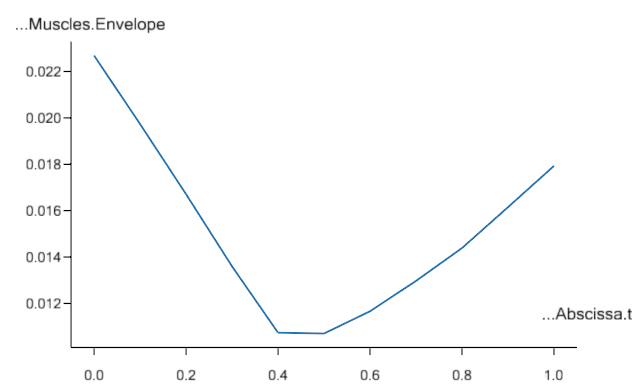
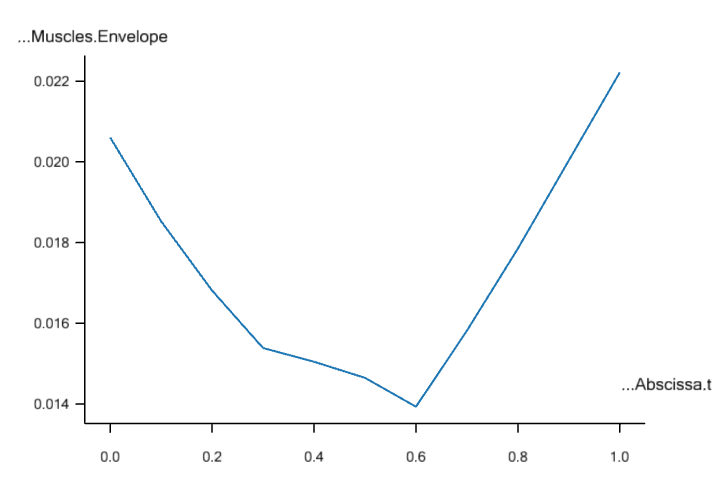
Reviewed GEtting started modeling

diff --git a/A_Getting_started_modeling/lesson3.rst b/A_Getting_started_modeling/lesson3.rst
@@ -48,11 +48,12 @@ is one model feature that will make your life easier.
 **The human model includes "default drivers" which can constrain the human model's posture
 to the joint angles and velocities set in the "Mannequin.any" file.**
 
-These constraint enforced by the default drivers are defined as ‘soft’
+The constraint enforced by the default drivers are defined as ‘soft’
 constraints - constraints that be overridden by the 19 'hard constraints' which we will define.
 
 **You can therefore sequentially add the 19 hard drivers on top of the soft default drivers, and deactivate the default
-drivers at the very end. The advantage is that you have a model whose kinematics can be tested at every step along the way.**
+drivers at the** :ref:`*very end of this lesson* <Check if model is kinematically determined?>` **. The advantage is that you have a model whose 
+kinematics can be tested at every step along the way.**
 
 Step 1: Fixing the pelvis to ground
 -----------------------------------------------
@@ -71,13 +72,14 @@ In the "Environment.any" file, add the following within the "GlobalReferenceFram
          };§
        }; // Global reference frame
 
+**Reload the model (F7).**
 
 Hpoint is a term used in the seating industry to characterize
 the position of the pelvis in a seat. Here we shall simply attach the
 pelvis to this point by means of a rigid connection.
 
 **Drivers which connect the human and environment are traditionally placed in a folder called
-"ModelEnvironmentConnection" (** :doc:`*explained here* <lesson1>` **), and for historical reasons, it is placed in
+"ModelEnvironmentConnection" (** :ref:`*explained here* <The model structure>` **), and for historical reasons, it is placed in
 an** ``#include`` **file called "JointsAndDrivers.any". Let’s open this file by
 double-clicking of the following line in the main file**:
 
@@ -213,8 +215,8 @@ once they are properly defined.**
 Step 2: Locking pelvis-thorax rotation
 --------------------------------------
 
-The only purpose of the trunk in this model is to anchor the psoas muscles connected 
-to the leg. So we will set to zero, the angles and velocities of 3 DOF of pelvis-thorax flexion, lateral bending and axial rotation.
+The only purpose of the trunk in this model is to anchor the psoas muscles which move 
+the leg. So we will set to zero, the angles and velocities of 3 DOF of pelvis-thorax flexion, lateral bending and axial rotation.
 
 We will place the drivers enforcing these constraints in the "Drivers" folder within "JointsAndDrivers.any" (shown below):
 
@@ -235,7 +237,7 @@ We will place the drivers enforcing these constraints in the "Drivers" folder wi
     };
 
 
-Then insert a"PelvisThoraxDriver" into the Drivers folder, created using the ``AnyKinEqSimpleDriver`` class. 
+Insert a"PelvisThoraxDriver" into the Drivers folder, created using the ``AnyKinEqSimpleDriver`` class. 
 You already know how to create model objects from scratch by using the 
 the "Class Inserter" (:ref:`*described here* <Creating a segment (using the Class Inserter)>`). More details on properties
 such as DriverPos, DriverVel etc. can be (:ref:`*found here* <Creating a constant velocity joint motion>`) :
@@ -295,7 +297,7 @@ Step 4: Connecting the foot to the pedal
 -----------------------------------------
 
 The foot will be connected to the pedal by a spherical joint. We have assumed 
-the connection node on the foot to be the "MetatarsalJoint2Node". This is
+the connection node on the foot to be the "MetatarsalJoint2Node". The driver is
 defined inside the "JointsAndDrivers.any" file in the following way:
 
 .. code-block:: AnyScriptDoc
@@ -327,13 +329,15 @@ DOFs to always equal zero. Just as in Steps 3 & 4, this will be done using ``Any
     AnyFolder Drivers = 
     {
     ...
-      AnyKinEqSimpleDriver NeckJntDriver = 
+      AnyKinEqSimpleDriver SkullThoraxDriver =  
       {
-        AnyKinMeasure& ref0 = ...HumanModel.BodyModel.Interface.Trunk.NeckJoint;
+        AnyKinMeasure& ref0 = ...HumanModel.BodyModel.Interface.Trunk.SkullThoraxFlexion;
+        AnyKinMeasure& ref1 = ...HumanModel.BodyModel.Interface.Trunk.SkullThoraxLateralBending;        
+        AnyKinMeasure& ref2 = ...HumanModel.BodyModel.Interface.Trunk.SkullThoraxRotation;   
         
-        DriverPos = pi/180*{0};
-        DriverVel = pi/180*{0};
-       };
+        DriverPos = pi/180*{0,0,0};
+        DriverVel = pi/180*{0,0,0};
+      };
       
       §AnyKinEqSimpleDriver AnkleDriver = 
       {
@@ -474,35 +478,28 @@ constraints from the joints and the drivers in the model.**
 In general, the total number of DOFs in the model should be exactly as
 same as the total number of kinematic constraints in the model. But at
 the moment, the number of kinematic constraints is larger than that of
-DOFs. In this kind of situation, the kinematics of the model may not be
-determined uniquely because there are more equations to be solved than
-the number of unknowns in the system. This may frequently happen if the
-user may not consider this concept of the DOFs and the constraints.
+DOFs. 
 
-But you should know why there are more constraints than you have defined
-and how AnyBody could solve the kinematics of the model even in this
-situation. In the “HumanModel” folder there is a subfolder of which name
-is ‘DefaultMannequinDrivers’. In that folder, there are some default
-drivers which can control the posture of the human model based on the
-values in the Mannequin.any file.
+**In some cases, having more constraints than DOFs (also called a redundant set of constraints) results in a failed kinematic simulation,
+because the system is over-constrained.**
+
+However our AnyBody model seems to work despite this constraint redundancy. Why?
+
+This is because, these 150 - 132 = 18 "extra" constraints were also "soft" constraints enforced by the 
+“default mannequin drivers” described :ref:`*here earlier* <The “Default mannequin drivers”>`.
+
+The "DefaultMannequinDrivers" can be found in a subfolder of the “HumanModel” folder, as shown in the figure below.
+These drivers control the human model's posture based on the values in the "Mannequin.any" file.
 
 |Model tree Default manequin drivers|
 
-The reason why these default drivers exist is that sometimes the user
-may have some difficulties in finding which human joints should be
-driven or what kinds of constraints should be defined for the human
-model. In order to provide a more convenient way of modeling, these
-default drivers of human model can help users even if they may miss some
-necessary drivers to run the kinematics perfectly. And because these
-default drivers are defined as “Soft” constraints, the kinematics of the
-model can be solved with the other normal “Hard” type constraints.
-“Soft” constraint means that it can be compromised with other Soft and
-Hard Constraints.
+Because these default drivers are defined as “Soft” constraints, they were compromised in
+favour of the "Hard" constraints specified in Steps 1 to 7 in this document. 
 
-Because you could define all necessary “Hard” constraints to run the
-kinematics, let us find the way how to remove these default drivers from
-your model. You can just add one more BM statement in the main file to
-control the default drivers of the human model like this:
+This avoided an over-constrained situation and kinematics could therefore be solved.
+
+Since you could define all necessary “Hard” constraints, 
+the default drivers can now be removed by just adding one more BM statement to the main file:
 
 .. code-block:: AnyScriptDoc
 

diff --git a/A_Getting_started_modeling/lesson4.rst b/A_Getting_started_modeling/lesson4.rst
@@ -31,7 +31,8 @@ Since this is not a part of the human body, it is logical to place it in the Env
 to add:
 
 .. code-block:: AnyScriptDoc
-
+     
+     ... 
      AnyRevoluteJoint HingeJoint = {
        Axis = z;
        AnyFixedRefFrame &Ground = .GlobalRef;
@@ -56,7 +57,7 @@ Turn off default reaction forces
 --------------------------------
 
 As mentioned in this :ref:`*previous section* <Switching off driver reactions when muscles do the job (Important!)>`, 
-the "Reaction.Type" property for all kinematic drivers that describe muscle-actuated motions must be set to "Off".
+the "Reaction.Type" property for all kinematic drivers that act on muscle-actuated joints must be set to "Off".
 
 .. code-block:: AnyScriptDoc
 
@@ -125,7 +126,7 @@ on the pelvis is to provide the necessary supports on the human pelvis
 to run the inverse dynamics if users may not define enough support
 forces on either both feet or pelvis.
 
-Since your model has a driver between ground and pelvis (which applies the default reaction forces),
+Since your model has a joined named "SeatPelvis" between ground and pelvis (which will apply the default reaction forces),
 you can comment out “Model\\Reactions.any” in the main file:
 
 .. code-block:: AnyScriptDoc
@@ -181,7 +182,7 @@ Now, reload the model and run the "RunApplication" operation from the operations
 
 |InverseDynamics_End|
 
-Plot “Main.HumanModel.BodyModel.SelectedOutput.Right.Leg.Muscles.Envelope” (see :ref:`*this for help* <Plotting simulation results>`).
+Plot “Main.Study.Output.Model.HumanModel.BodyModel.SelectedOutput.Right.Leg.Muscles.Envelope” (see :ref:`*this for help* <Plotting simulation results>`).
 It expresses the maximum muscle activation level seen across all the muscles
 in the right leg at a given instant:
 
@@ -189,8 +190,7 @@ in the right leg at a given instant:
 
 Obviously holding the leg out in the air like that without the support
 of a pedal spring and holding up the weight of the pedal as well
-requires about slightly less than from about 9% to 6% of the leg’s
-strength.
+requires about 6% to 9% of the leg’s strength.
 
 Now, let us study the effect of spring stiffness. In "Environment.any", we change the spring stiffness:
 

diff --git a/A_Getting_started_modeling/lesson1.rst b/A_Getting_started_modeling/lesson1.rst
@@ -114,15 +114,17 @@ and the applications we hook them up to.
 
 |ModelTree|
 
-Just below “Main”, you see the "HumanModel" folder which holds all the body
-parts that are imported from the AMMR, such as segments (bones), joints, muscles etc.
+**Just below “Main”, you see the "HumanModel" folder which holds all the body
+parts that are imported from the AMMR, such as segments (bones), joints, muscles etc.**
+
 Information for scaling the size of the default human model is also stored here.
 In general, you won’t need to modify this information directly.
 
 The "Model" folder comes next this holds information specific to the application you're creating.
 In this case, this is the pedal model. The "Model" folder is sub-divided into three sub-folders:
 
-- **HumanModel** - This is a local reference to the "Main.HumanModel", located within the "Model" folder.
+- **HumanModel** - This is a local reference to the "Main.HumanModel", located within the "Model" folder. 
+  :ref:`*This section* <Reference objects and the ‘&’ symbol>` can help you recollect what reference objects are. 
 
 - **Environment** - This contains external hardware such as chairs,
   bicycles, tools, or, in the present case, a pedal.

diff --git a/A_Getting_started_modeling/lesson2.rst b/A_Getting_started_modeling/lesson2.rst
@@ -24,7 +24,7 @@ For this pedal model, you will configure the human model as follows:
 
 -  The left leg segments will be excluded.
 
--  There will be no muscle in the right leg segments.
+-  There will be no muscles in the right leg.
 
 This is implemented by declaring the corresponding BM statements just before
 the inclusion of the “HumanModel.any” file.
